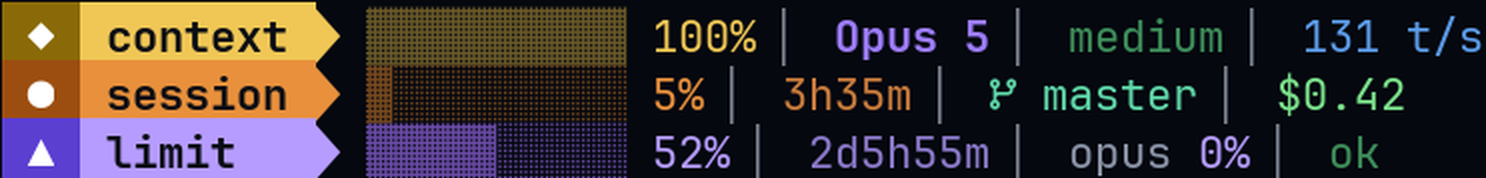
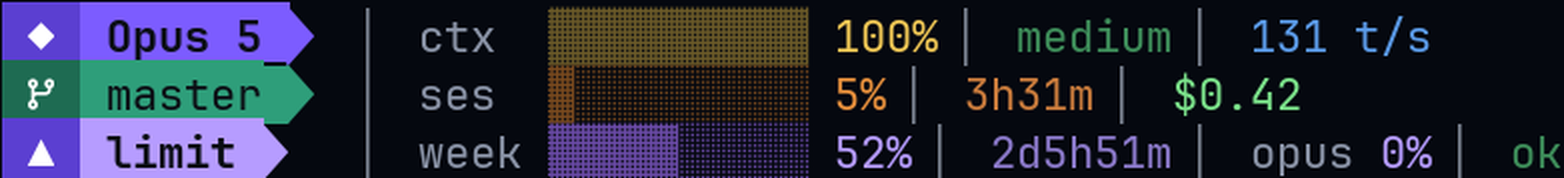
feat: panel keeps the badges and aligns the bars anyway
Model and branch stay as leading chips — they are the identity of the row —
and a post-render aligner pads each line at a zero-width marker so dividers,
labels and meters share a column regardless of name lengths.

diff --git a/scripts/align-bars.py b/scripts/align-bars.py
@@ -1,0 +1,53 @@
+#!/usr/bin/env python3
+"""Align meter bars into one column across status line rows.
+
+ccstatusline can't do this: each row's bar sits behind a variable-width field
+(model name, git branch), so the column moves. We pad after the fact — find the
+first bar glyph on every row, and insert spaces before the short ones.
+"""
+import sys
+
+BARS = ('▓', '░')
+MARK = '\u200b'  # zero-width space marking where padding goes (left of the label)
+
+
+def bar_position(line):
+    """Return (string index, visible column) of the first bar glyph, or None."""
+    col = i = 0
+    n = len(line)
+    while i < n:
+        c = line[i]
+        if c == '\x1b':
+            j = line.find('m', i)
+            if j == -1:
+                break
+            i = j + 1
+            continue
+        if c in BARS:
+            return i, col
+        col += 1
+        i += 1
+    return None
+
+
+def main():
+    lines = sys.stdin.read().split('\n')
+    spots = [bar_position(l) for l in lines]
+    cols = [s[1] for s in spots if s]
+    if len(cols) > 1:
+        target = max(cols)
+        for n, spot in enumerate(spots):
+            if spot:
+                idx, col = spot
+                if col < target:
+                    # pad at the marker (left of the label) so labels stay flush,
+                    # falling back to just before the bar when no marker is set
+                    at = lines[n].find(MARK)
+                    if at == -1 or at > idx:
+                        at = idx
+                    lines[n] = lines[n][:at] + ' ' * (target - col) + lines[n][at:]
+    sys.stdout.write('\n'.join(l.replace(MARK, '') for l in lines))
+
+
+if __name__ == '__main__':
+    main()

diff --git a/README.md b/README.md
@@ -33,13 +33,18 @@ cp themes/nocturne/settings.json ~/.config/ccstatusline/settings.json
 ```
 
 ### Nocturne Panel
-Three lines, one column. Each meter gets its own badge — **context**, **session**, **limit** — and because the labels are fixed width, every bar starts at the same column no matter how long your branch name is. The weekly limit gets its own row, since on Claude Code that's the number that actually stops you.
+Three rows, one grid. The model, the branch and the weekly limit each lead their own row as a badge; the meters line up in a column behind them. The weekly limit gets its own row because on Claude Code that's the number that actually stops you, and the Opus window sits beside it.
 
 ![Nocturne Panel](themes/nocturne-panel/preview.png)
 
 ```bash
 cp themes/nocturne-panel/settings.json ~/.config/ccstatusline/settings.json
+cp scripts/align-bars.py ~/.claude/scripts/align-bars.py
 ```
+
+**This theme needs the aligner.** ccstatusline cannot align these bars: each row's meter sits behind a variable-width field — your model name, your branch name — so the column moves with them, and `autoAlign` only works in Powerline mode. `scripts/align-bars.py` fixes it after the fact: it finds the first bar glyph on every row, measures its column ignoring ANSI escapes, and pads the short rows at a zero-width marker so the dividers, labels and bars all land together. The included `statusline.sh` pipes through it when present and skips it when absent, so the other themes are unaffected. Costs about 25 ms per render.
+
+Needs ~100 columns; the two-line themes go down to 56.
 
 ### Nocturne Flat
 **No Nerd Font required** — not a single private-use glyph. Same colours and layout, plain `|` dividers, no badges. Use this over SSH, in a bare terminal, or anywhere the fancy glyphs come out as boxes.
